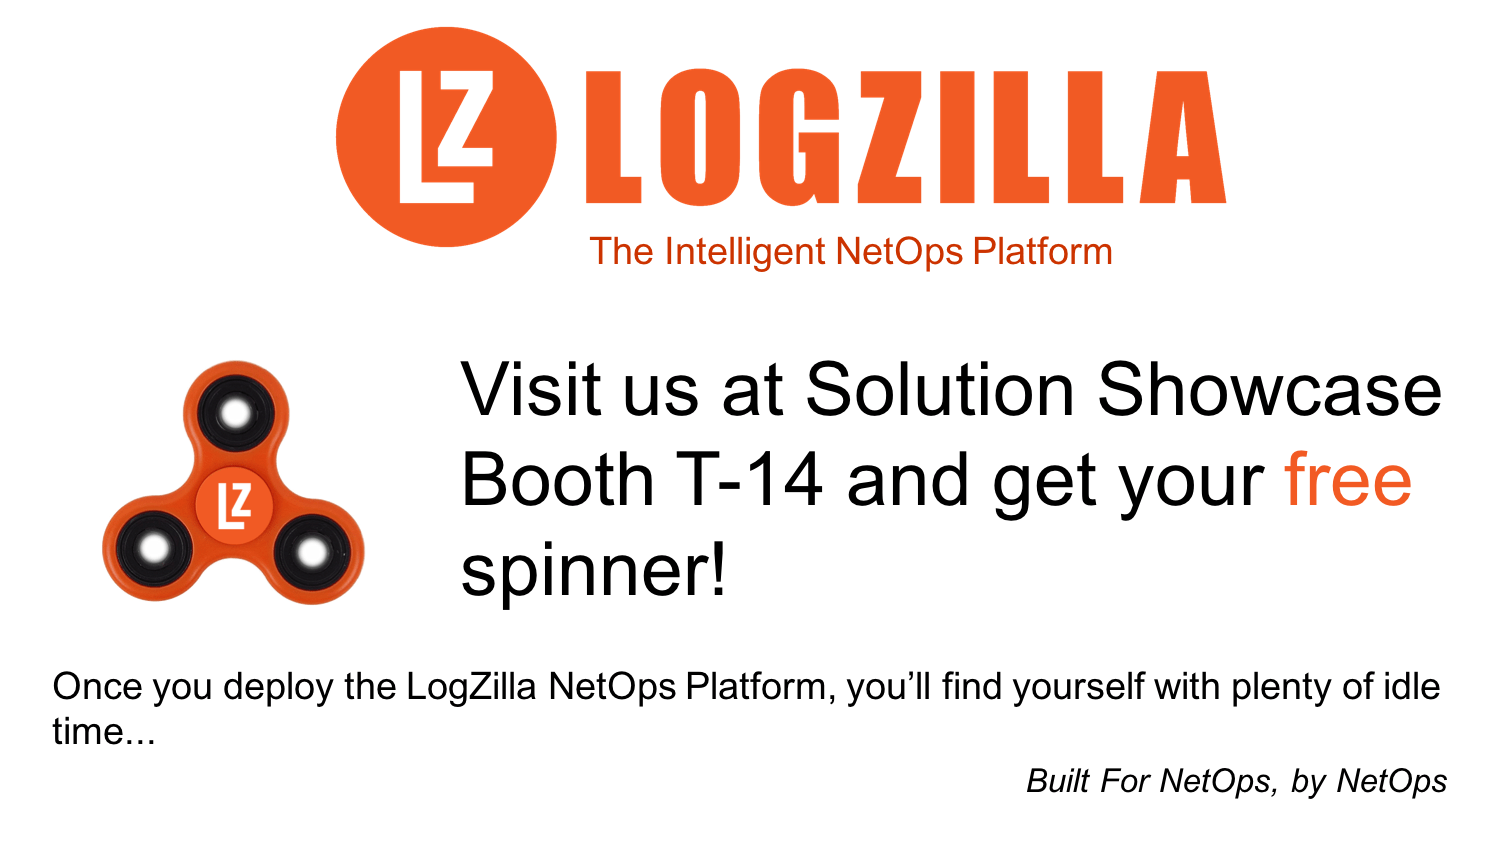
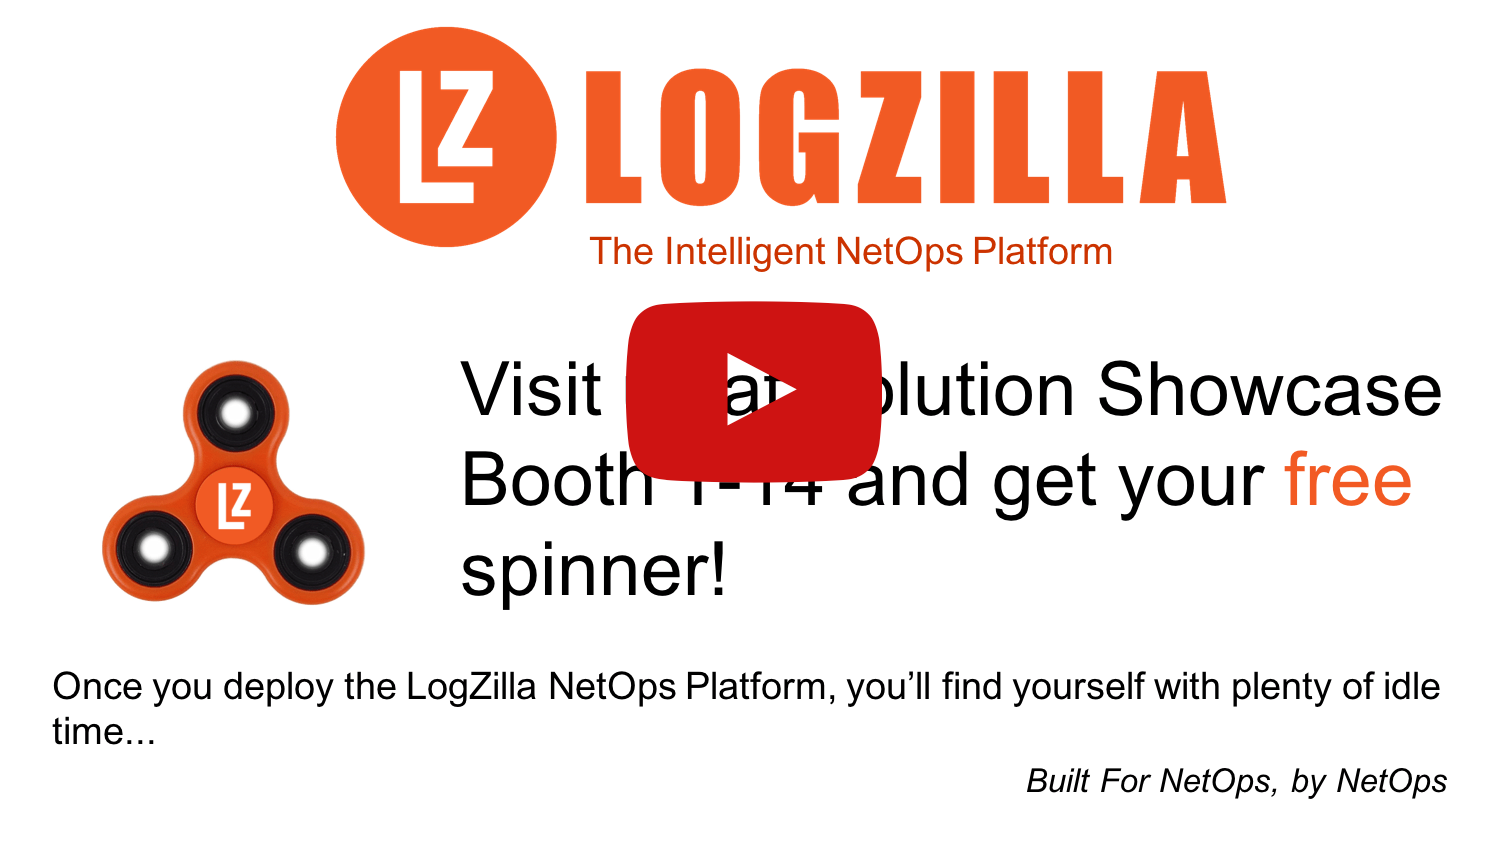
Ciscolive Day 2

Changed region(s): [[0.4049, 0.3389, 0.5918, 0.5853]]

diff --git a/_includes/footer.html b/_includes/footer.html
@@ -37,7 +37,6 @@
                         <ul class="social list-inline">
                             <li><a href="http://twitter.com/logzilla" target="_blank"><i class="fa fa-twitter"></i></a></li>
                             <li><a href="https://www.linkedin.com/company/logzilla" target="_blank"><i class="fa fa-linkedin"></i></a></li>
-                            <li><a href="http://www.facebook.com/logzilla?fref=ts" target="_blank"><i class="fa fa-facebook"></i></a></li>
                         </ul>
                         <div class="form-container">
                             <p class="intro">Stay up to date with the latest news and offers from LogZilla</p>

diff --git a/_posts/2017-06-28-spinner-wars.md b/_posts/2017-06-28-spinner-wars.md
@@ -1,26 +1,26 @@
 ---
-published: false
+published: true
 layout: post
 
-title: Spinner wars at CiscoLive!
+title: Spinner Wars at CiscoLive!
 subtitle: when adults act like children...
 author: mwheat
 tags: [NetOps, Platform, Technology, Cisco, CiscoLive, CLUS]
-summary: Toys are what technologist are drawn to at trade shows...
+summary: Trade show toys are always a hit...
 headline-bg: /assets/images/ciscolive/LZ-booth2.jpg
 
 ---
 
-# Booth update and Spinner wars
-Day two at CiscoLive! was so much better than expected.  We had a lot of return visitors and everyone is spending more time with us today. I am chalking that up to the super fun Logizallians covering the booth and not the fidget spinners we are giving away. Intersting thing about cool booth swag; it brings in other vendors who are interested in what we do, so being able to network (pun intended), has been priceless. Talking with so many people that do NetOps daily has given me a new perspective on how important LogZilla is in this space. It blows my mind how many people are logging data but cant or dont use it, but want to. I wish there was a way to share some of the reactions I got today after demo'ing our platform. I had a similar reaction this morning after I saw a competitor talk to a customer while playing with a LogZilla spinner. 
+# Booth Update and Spinner wars
+Day two at CiscoLive! was so much better than expected. We had a lot of return visitors and everyone is spending more time with us today. I'm chalking that up to the super fun *LogZiallians* who are covering the booth and not the fidget spinners we're giving away. Interesting thing about cool booth swag; it brings in other vendors who are interested in what we do, so being able to network (pun intended), has been priceless. Talking with so many people that do NetOps daily has given me a new perspective on how important LogZilla is in this space. It blows my mind that so many companies are logging data but can't or don't use it...but they **want to**. I wish there were a way to share some of the reactions I got today after demoing our platform. I had a similar reaction this morning after I saw a competitor talk to a customer while playing with **our LogZilla spinner**. 
 
-CiscoLive! is an awesome place because adults are aplauded when they let their inner child out, even just a little bit. Like all children, CiscoLive! attendees and vendors will become competitive somehwere around day two. Just outside our booth, we were playing with some of the other kids and this is what happened:
-
-
-![LZ-Spinner-vid](/assets/images/ciscolive/LZ-spinner-vid.m4v)
+CiscoLive! is an awesome place because adults are applauded when they let their inner child out, even just a little bit. CiscoLive! attendees and vendors sometime tend to be competitive and, just outside our booth, we noticed someone playing *Spinner Wars* with ours and another vendor's spinner, here's what happened:
 
 
-If you are at CiscoLive! this week, stop by the Solutions Showcase next to the Beer Garden and say hello and try to talk me out of a spinner! Trades are good post on social media just might let you release your inner child!
+**Spinner Video**
 
+[![Spinner Wars!](https://img.youtube.com/vi/BvUXC25a0tM/0.jpg)](https://www.youtube.com/watch?v=BvUXC25a0tM){:target="_blank"}
+
+If you're at CiscoLive! this week, stop by the Solutions Showcase booth T14 (next to the Brew House) and say hello...and try to talk me out of one of these strangely addictive spinners! We're also giving away a second spinner if you post something nice about us on Twitter! (be sure to mention `@logzilla` and `#clus`).
 
 LogZilla is built by NetOps, for NetOps. 

diff --git a/_posts/2017-06-27-CiscoLive-Day1.md b/_posts/2017-06-27-CiscoLive-Day1.md
@@ -2,8 +2,8 @@
 published: true
 layout: post
 
-title: Fidget Spinners and Hooker Marketing at CiscoLive!
-subtitle: You read that right...
+title: Fidget Spinners and Street Marketing at CiscoLive!
+subtitle: How to get noticed...in the bathroom?
 author: mwheat
 tags: [NetOps, Platform, Technology, Cisco, CiscoLive, CLUS]
 summary: So we stumbled across a new way to drive customers to our booth...
@@ -11,7 +11,7 @@ headline-bg: /assets/images/ciscolive/LZ-booth1.jpg
 
 ---
 
-# Fidget Spinners and Hooker Marketing
+# Fidget Spinners and Street Marketing
 Day one at CiscoLive! was amazing.  There were so many people standing at the gates ready to get in the show before it opened. It reminded me a lot of the pictures of crowds on Black Friday - only at a much larger scale and with happier people. LogZilla has a booth in the Solutions Showcase and, as fate may have it, right beside the Beer Garden. We are getting a lot of good traffic; so...location, location, location!
 
 There are about twenty other vendors in the Showcase in our area and I am happy to say that we're consistently more busy than any of them. There are three of us *LogZillians* working the show and we're actively recruiting attendees to come meet the team and get a demo of the software. We did hundreds of demos yesterday and met some really great folks. 
@@ -32,9 +32,9 @@ We decided to offer a fidget spinner as a booth gift to help get us noticed. **B
 
 We printed a bunch of small cards to advertise said spinners and walked around handing them out. Clayton took a few and left in the restroom by the hand towels and surprisingly it brought bodies to our booth (YEA! Marketing LogZillians!). One of the attendees was kind enough to send out a hilarious tweet about our cards being in the restrooms to let us know this is how hookers market their services. We wouldn't know about that, but it made us all laugh and I guess it's a pretty good indication that we're getting noticed!
 
-![Hooker-Marketing](/assets/images/ciscolive/hooker-marketing.jpg){: .img-responsive .img-fullscreen }
+![Street-Marketing](/assets/images/ciscolive/street-marketing.jpg){: .img-responsive .img-fullscreen }
 
-After I post this, I am pretty sure all the other vendors will try hooker marketing, but we did it first and the real happy ending comes from the increased visibility our customer's get from the LogZilla NetOps Platform!
+After I post this, I am pretty sure all the other vendors will try, but we did it first and the real happy ending comes from the increased visibility our customer's get from the LogZilla NetOps Platform!
 
 If you are at CiscoLive! this week, stop by the Solutions Showcase next to the Beer Garden and say hello.  We don't have a lot of spinners left so expect us to get a little creative on how we give these things away.  
 
